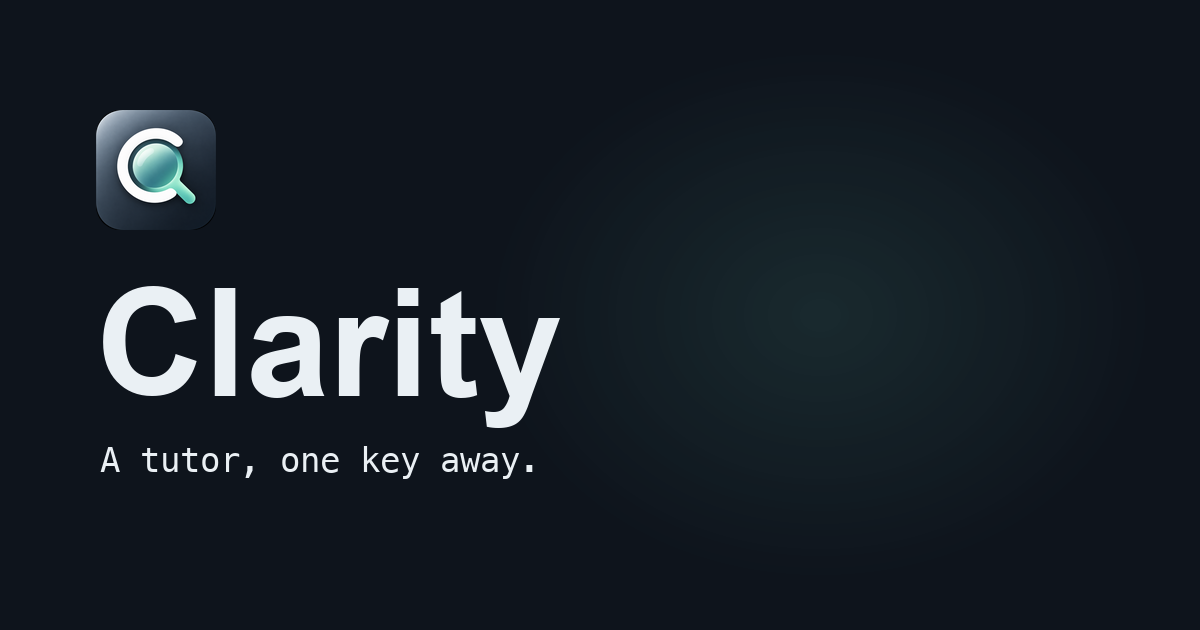
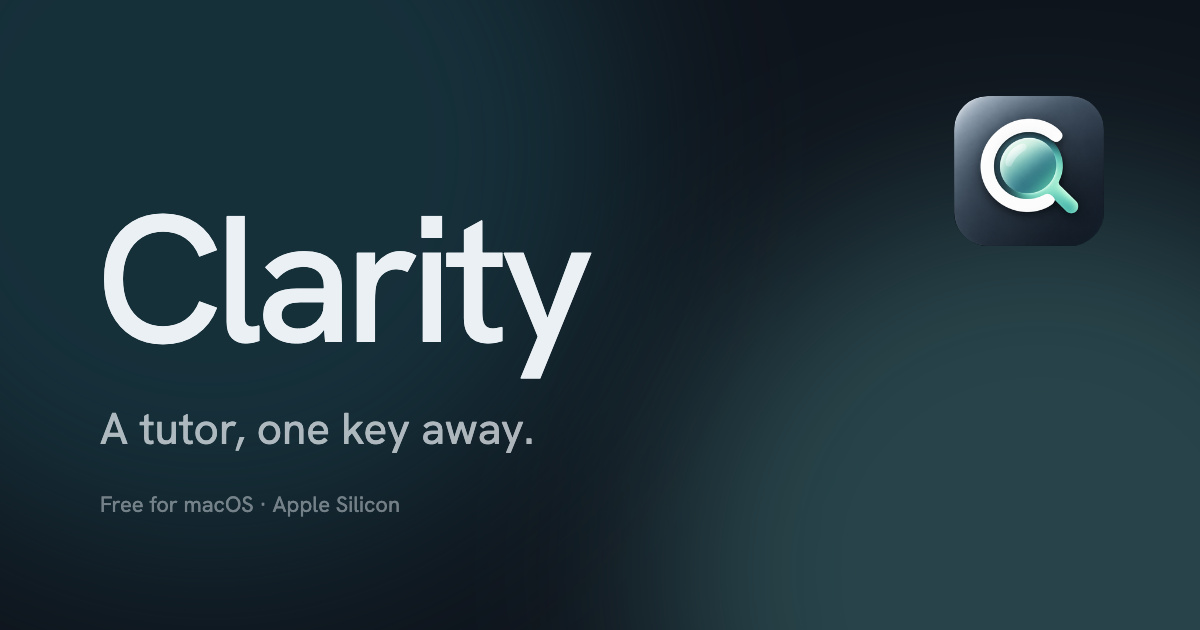
First-launch note, live version and size, privacy line, new social preview

diff --git a/index.html b/index.html
@@ -21,8 +21,8 @@
   <link rel="preconnect" href="https://fonts.googleapis.com">
   <link rel="preconnect" href="https://fonts.gstatic.com" crossorigin>
   <link rel="stylesheet" href="https://fonts.googleapis.com/css2?family=Hanken+Grotesk:wght@400;500;600&family=Fragment+Mono&display=swap">
-  <link rel="stylesheet" href="/assets/tokens.css?v=7">
-  <link rel="stylesheet" href="/assets/site.css?v=7">
+  <link rel="stylesheet" href="/assets/tokens.css?v=8">
+  <link rel="stylesheet" href="/assets/site.css?v=8">
 </head>
 <body>
 <div class="bg" aria-hidden="true"><i class="b1"></i><i class="b2"></i><i class="b3"></i></div>
@@ -62,8 +62,9 @@
           <svg class="apple" viewBox="0 0 17 20" aria-hidden="true"><path fill="currentColor" d="M14.1 10.6c0-2.3 1.9-3.4 2-3.5-1.1-1.6-2.8-1.8-3.4-1.8-1.4-.1-2.8.9-3.5.9-.7 0-1.9-.8-3.1-.8C4 5.4 1.5 7.4 1.5 11.1c0 1.1.2 2.2.6 3.4.5 1.6 2.5 5.4 4.5 5.4 1.1 0 1.8-.7 3.2-.7 1.3 0 2 .7 3.2.7 2.1 0 3.9-3.5 4.4-5.1-2.8-1.3-3.3-3.8-3.3-4.2zM11.9 3.6c.6-.7 1-1.8.9-2.8-.9 0-2 .6-2.6 1.4-.6.7-1.1 1.8-.9 2.8 1 .1 2-.5 2.6-1.4z"/></svg>
           <span class="label">Download for macOS</span>
         </a>
-        <span class="note">macOS 14 or later · Apple Silicon</span>
+        <span class="note" id="rel-note">macOS 14 or later · Apple Silicon</span>
       </div>
+      <p class="firstrun">Won't open? macOS blocks it once because it isn't notarized yet. <b>System Settings → Privacy &amp; Security → Open Anyway.</b></p>
     </div>
     <div class="film">
       <video id="film" src="/docs/captures/capture-flow@2x.mp4" poster="/docs/captures/capture-flow-poster@2x.png" muted playsinline loop preload="metadata" aria-label="Clarity capturing a problem and explaining it"></video>
@@ -77,6 +78,7 @@
   <!-- 1 · the real capture, pinned, driven by scroll -->
   <section class="sec dark" id="capture">
     <h2 class="h2 focus">Press <kbd>⌘</kbd><kbd>⇧</kbd><kbd>E</kbd>. Drag a box.</h2>
+    <p class="line focus">Only the box you draw leaves your Mac. Your recents stay on it.</p>
     <div class="duo">
       <ol class="stepsl" id="cap-steps">
         <li><b>Capture</b><span>Drag a box round the problem. A thumbnail lands in the Spotlight box.</span></li>
@@ -160,6 +162,6 @@
   </section>
 </main>
 
-<script src="/assets/site.js?v=7" defer></script>
+<script src="/assets/site.js?v=8" defer></script>
 </body>
 </html>

diff --git a/assets/site.js b/assets/site.js
@@ -114,6 +114,19 @@
     e.preventDefault(); go();
   });
 
+  /* ============================================================ release facts, from GitHub's public API */
+  fetch('https://api.github.com/repos/s0hamjain/Clarity/releases/latest', { headers: { Accept: 'application/vnd.github+json' } })
+    .then(function (r) { return r.ok ? r.json() : null; })
+    .then(function (rel) {
+      if (!rel) return;
+      var dmg = (rel.assets || []).filter(function (a) { return a.name === 'Clarity.dmg'; })[0];
+      var ver = /^v?\d/.test(rel.tag_name) ? rel.tag_name.replace(/^v/, 'v') : (rel.name || rel.tag_name);
+      var parts = [ver];
+      if (dmg) parts.push(Math.round(dmg.size / 1048576) + ' MB');
+      parts.push('macOS 14 or later', 'Apple Silicon');
+      $('rel-note').textContent = parts.join(' \u00b7 ');
+    }).catch(function () {});
+
   /* ============================================================ boot */
   var start = viewFromPath(location.pathname);
   history.replaceState({ v: start }, '', location.pathname);

diff --git a/assets/site.css b/assets/site.css
@@ -49,6 +49,8 @@ kbd { font: 400 .78em/1 var(--f-mono); padding: .3em .45em; border: 1px solid cu
 .dl .apple { width: 14px; height: 17px; }
 .dl.is-going { background: var(--c-ink-3); color: var(--c-mist); }
 .note { font-size: 13px; color: var(--c-mist-45); }
+.firstrun { margin-top: 18px; max-width: 46ch; font-size: 13px; line-height: 1.5; color: var(--c-mist-45); }
+.firstrun b { font-weight: 500; color: var(--c-mist-70); }
 .film { width: 100%; min-height: 0; display: flex; justify-content: center; align-items: center; max-height: calc(100dvh - 120px); }
 .film video { display: block; width: 100%; height: auto; max-height: calc(100dvh - 120px); object-fit: contain; border-radius: 14px; background: #000; box-shadow: 0 30px 80px rgba(0,0,0,.5); }
 @media (max-width: 860px) { .hero { height: auto; min-height: 100dvh; grid-template-columns: 1fr; align-content: start; padding-top: 84px; gap: 28px; } body.locked { overflow: auto; } }
